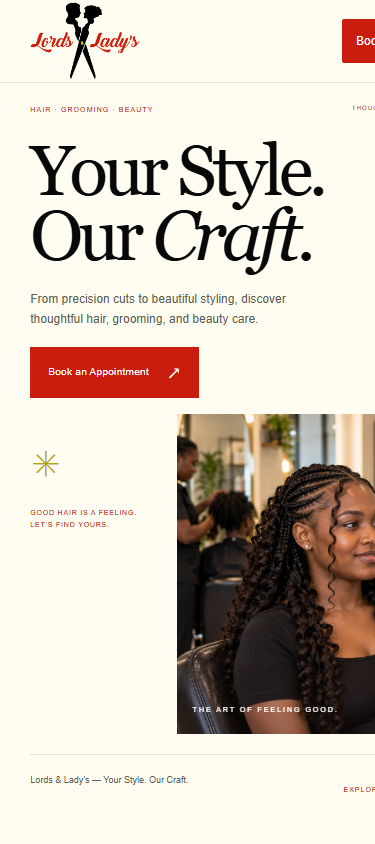
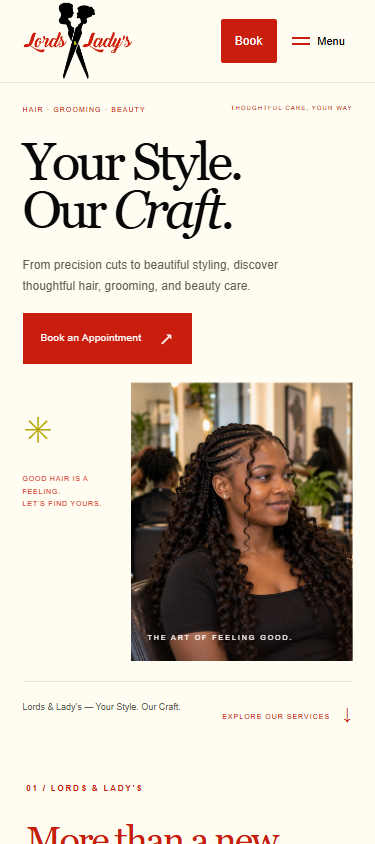
new

diff --git a/Trial350k/styles.css b/Trial350k/styles.css
@@ -58,18 +58,20 @@
 .menu-toggle{min-height:44px;min-width:44px}
 html{scroll-padding-top:var(--header-scroll-offset,115px)}
 @media(max-width:760px){
- .header{height:83px;gap:8px}
+ .header{display:grid;grid-template-columns:minmax(0,1fr) auto auto;height:83px;gap:8px}
  .header.is-scrolled{height:64px}
  .brand-logo{flex-basis:110px;width:110px;height:79px}
  .header.is-scrolled .brand-logo{flex-basis:90px;width:90px;height:64px}
- .header-book{flex:0 0 56px;width:56px;height:44px;padding:0 10px;border:1px solid var(--brand-red);background:var(--brand-red);color:#fff;font-size:11px;line-height:1;border-radius:2px}
+ .header-book{flex:0 0 56px;width:56px;height:44px;margin:0;padding:0 10px;border:1px solid var(--brand-red);background:var(--brand-red);color:#fff;font-size:11px;line-height:1;border-radius:2px}
  .header-book:hover{background:var(--wine-dark);color:#fff}
  .header-book .book-label{font-size:0}
  .header-book .book-label::after{content:'Book';font-size:12px}
  .header-book>span[aria-hidden="true"]{display:none}
- .menu-toggle{display:inline-flex;align-items:center;justify-content:center;gap:7px;flex:0 0 68px;width:68px;height:44px;padding:0 4px;border:0;background:transparent;color:var(--brand-black);font-size:11px;line-height:1}
- .menu-icon{width:18px;height:14px;display:flex;flex-direction:column;justify-content:space-between}
- .menu-icon i{height:2px;width:100%;display:block;background:var(--brand-red);transition:transform .2s ease,opacity .2s ease}
+ .menu-toggle{display:inline-flex;align-items:center;justify-content:center;gap:7px;flex:0 0 68px;width:68px;height:44px;margin:0;padding:0 4px;border:0;background:transparent;color:var(--brand-black);font-size:11px;line-height:1}
+ .menu-toggle .menu-label{font-size:11px;line-height:1}
+ .menu-icon{position:relative;display:block;flex:0 0 18px;width:18px;height:14px;font-size:0}
+ .menu-icon i{position:absolute;left:0;top:3px;height:2px;width:18px;display:block;background:var(--brand-red);transition:transform .2s ease,opacity .2s ease}
+ .menu-icon i:last-child{top:9px}
  .header.menu-open .menu-icon i:first-child{transform:translateY(6px) rotate(45deg)}
  .header.menu-open .menu-icon i:last-child{transform:translateY(-6px) rotate(-45deg)}
  .header nav{top:100%;left:0;right:0;max-height:calc(100dvh - 64px);overflow-y:auto;overscroll-behavior:contain;padding:10px 7% 18px;gap:4px;background:var(--surface);box-shadow:0 12px 18px rgba(24,24,24,.09);font-size:15px}
@@ -77,7 +79,7 @@ html{scroll-padding-top:var(--header-scroll-offset,115px)}
  .header nav a{min-height:44px;display:flex;align-items:center;padding:8px 0}
 }
 @media(max-width:360px){
- .header{gap:5px}
+ .header{grid-template-columns:minmax(0,1fr) 54px 64px;gap:5px}
  .brand-logo{flex-basis:94px;width:94px;height:67px}
  .header.is-scrolled .brand-logo{flex-basis:86px;width:86px;height:61px}
  .header-book{flex-basis:54px;width:54px}

diff --git a/Trial350k/.qa-navbar.html b/Trial350k/.qa-navbar.html
@@ -1,7 +1,7 @@
 <!doctype html>
 <meta charset="utf-8">
 <title>Navbar QA</title>
-<iframe id="site" src="/"></iframe>
+<iframe id="site"></iframe>
 <pre id="results">Loading</pre>
 <style>html,body,#site{margin:0;width:100%;height:100%;border:0;overflow:hidden}#site{position:fixed;inset:0;visibility:hidden}#results{position:fixed;inset:0;overflow:auto;margin:0;padding:12px;background:#fff;font:12px/1.5 monospace;white-space:pre-wrap;overflow-wrap:anywhere}</style>
 <script>
@@ -20,4 +20,5 @@ f.addEventListener('load',async()=>{
  toggle.click();d.querySelector('.header-book').click();await delay(100);results.book={hash:w.location.hash,bookingVisible:!!d.querySelector('.booking-page'),menuExpanded:toggle.getAttribute('aria-expanded')};
  document.querySelector('#results').textContent=JSON.stringify(results);
 });
+f.src='/';
 </script>
